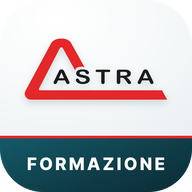
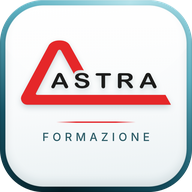
Icona app definitiva
Claude-Session: https://claude.ai/code/session_01GZ9H1D3qFR8bz622oAwBr9

diff --git a/index.html b/index.html
@@ -18,9 +18,9 @@
 <meta property="og:description" content="Corsi di sicurezza sul lavoro, ambiente, energia e HACCP in aula, videoconferenza ed e-learning.">
 <meta property="og:type" content="website">
 <meta property="og:locale" content="it_IT">
-<link rel="icon" href="app/favicon-64.png?v=2" type="image/png">
+<link rel="icon" href="app/favicon-64.png?v=3" type="image/png">
 <link rel="manifest" href="manifest.webmanifest">
-<link rel="apple-touch-icon" href="app/apple-touch-icon.png?v=2">
+<link rel="apple-touch-icon" href="app/apple-touch-icon.png?v=3">
 <meta name="apple-mobile-web-app-capable" content="yes">
 <meta name="mobile-web-app-capable" content="yes">
 <meta name="apple-mobile-web-app-status-bar-style" content="default">
@@ -147,7 +147,7 @@
 </nav>
 
 <div class="installa" id="installa" hidden role="dialog" aria-labelledby="inst-t">
-  <img src="app/icon-192.png?v=2" alt="" width="52" height="52">
+  <img src="app/icon-192.png?v=3" alt="" width="52" height="52">
   <div><b id="inst-t">App ASTRA Formazione</b><span id="inst-d">Installare l'app sulla schermata Home per un accesso rapido ai corsi.</span></div>
   <button class="btn btn-rosso btn-s" id="inst-ok" type="button">Installa</button>
   <button class="inst-x" id="inst-x" type="button" aria-label="Chiudi">×</button>
@@ -155,7 +155,7 @@
 
 <div class="guida" id="guida" hidden role="dialog" aria-modal="true" aria-labelledby="guida-t">
   <button class="guida-x" id="guida-x" type="button" aria-label="Chiudi">×</button>
-  <img src="app/icon-192.png?v=2" alt="" width="84" height="84" class="guida-ico">
+  <img src="app/icon-192.png?v=3" alt="" width="84" height="84" class="guida-ico">
   <h2 id="guida-t">Installa l'app ASTRA</h2>
   <ol id="guida-passi"></ol>
   <div class="guida-freccia" id="guida-freccia" aria-hidden="true"><svg viewBox="0 0 24 24" fill="none" stroke="currentColor" stroke-width="2.6" stroke-linecap="round" stroke-linejoin="round"><path d="M12 4v16M5 13l7 7 7-7"/></svg></div>

diff --git a/sw.js b/sw.js
@@ -1,5 +1,5 @@
 /* Service worker ASTRA Formazione – © 2026 dr. Jonathan D'Eugenio */
-const V = 'astra-v14';
+const V = 'astra-v15';
 const BASE = ['./', './index.html', './manifest.webmanifest', './assets/app.css', './assets/app.js', './assets/data.js', './assets/listino.js', './assets/foto.js', './fonts/Inter-400.woff2', './fonts/Inter-600.woff2', './fonts/InterTight-800.woff2',
   './loghi/astra_logo.svg', './loghi/aifos_logo.svg', './loghi/jd_logo_bianco.svg', './app/icon-192.png'];
 self.addEventListener('install', e => { e.waitUntil(caches.open(V).then(c => c.addAll(BASE)).then(() => self.skipWaiting())); });
